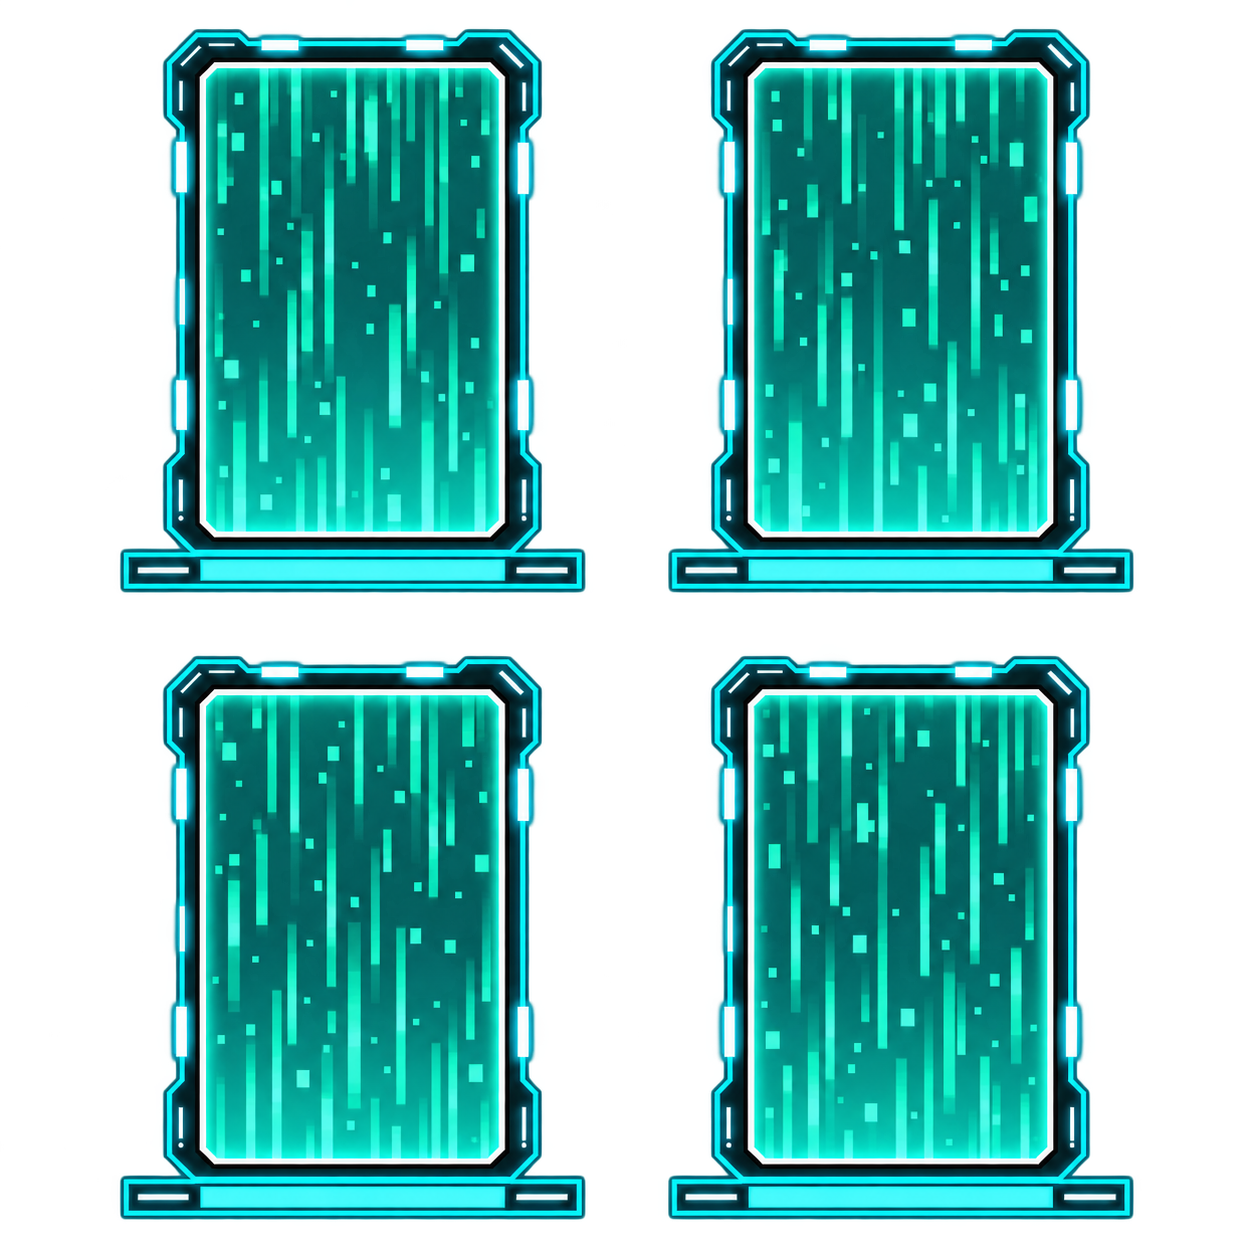
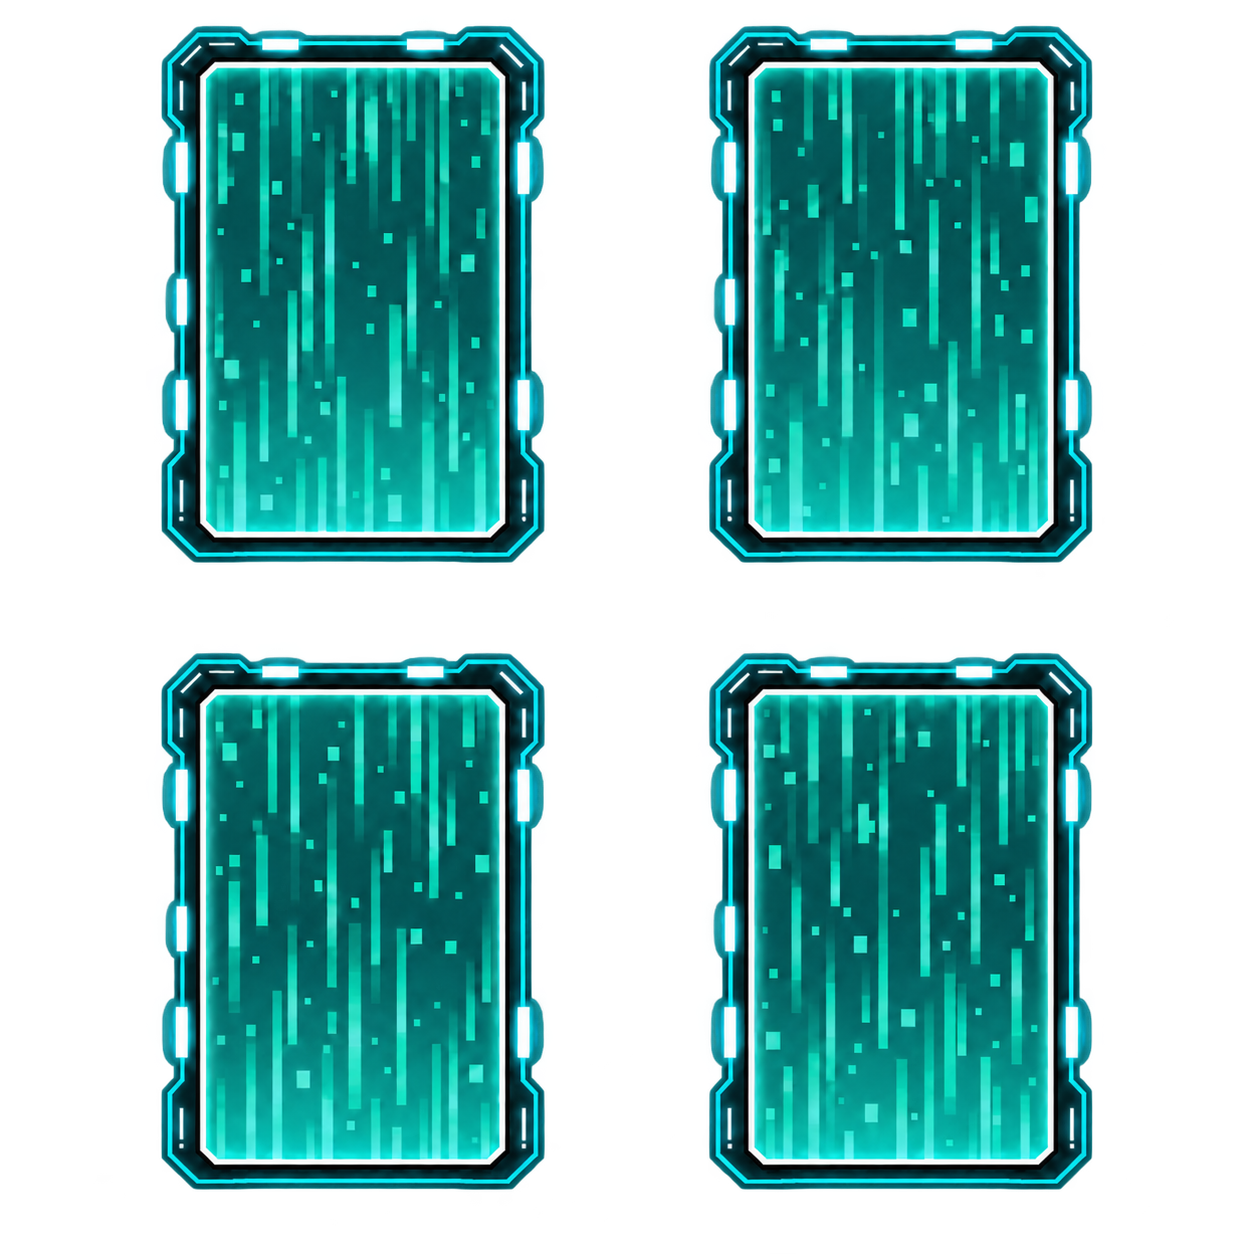
321

diff --git a/src/ui/art/corridorArt.ts b/src/ui/art/corridorArt.ts
@@ -1,4 +1,5 @@
-import bluePortalArt from "@/assets/explore-corridor/废弃楼层/蓝色传送门.png";
+import roomPortalSpriteArt from "@/assets/explore-corridor/废弃楼层/传送门.png";
+import bossGateArt from "@/assets/explore-corridor/废弃楼层/蓝色传送门.png";
 import corridorSafeArt from "@/assets/explore-corridor/废弃楼层/可交互物体/保险箱.png";
 import corridorMerchantArt from "@/assets/explore-corridor/废弃楼层/可交互物体/货商.png";
 import corridorVendingArt from "@/assets/explore-corridor/废弃楼层/可交互物体/贩卖机.png";
@@ -20,7 +21,7 @@ import type { NearMapVariant } from "@/explore/dungeon/types";
 import type { CurioKind } from "@/explore/corridor/types";
 
 export const CORRIDOR_PROP_SCALES = {
-  small: 0.5,
+  small: 0.7,
   medium: 1,
   large: 1.2,
 } as const;
@@ -38,8 +39,20 @@ interface CorridorPropArt {
 
 /** 废弃楼层专属背景与物件素材登记；每类交互物使用自己的透明 PNG。 */
 export const CORRIDOR_FAR_ART = corridorFarArt;
-/** 房间传送门：四个方向共用蓝色传送门立绘。 */
-export const CORRIDOR_PORTAL_ART = bluePortalArt;
+/** 房间传送门：四个方向共用四分镜传送门精灵图。 */
+export const CORRIDOR_ROOM_PORTAL_ART = roomPortalSpriteArt;
+/** 房间传送门精灵图为 2×2 排列，每个分镜为 627×627。 */
+export const CORRIDOR_ROOM_PORTAL_FRAME_SIZE = 627;
+/** 房间传送门在场景中的显示尺寸。 */
+export const CORRIDOR_ROOM_PORTAL_DISPLAY_HEIGHT = 330;
+/** 房间传送门每帧底部的透明留白比例，用于让可见底座贴住地面。 */
+export const CORRIDOR_ROOM_PORTAL_GROUND_TRIM = 35 / CORRIDOR_ROOM_PORTAL_FRAME_SIZE;
+/** 按当前显示高度换算出的房间传送门落点偏移，并额外下沉 20px 贴合实际视觉地面。 */
+export const CORRIDOR_ROOM_PORTAL_Y_OFFSET = Math.round(CORRIDOR_ROOM_PORTAL_DISPLAY_HEIGHT * CORRIDOR_ROOM_PORTAL_GROUND_TRIM) + 20;
+/** 以每帧底部最靠左的可见像素为锚点，第 2/4 帧需向右补偿的原图像素。 */
+export const CORRIDOR_ROOM_PORTAL_ANCHOR_SHIFT = 79;
+/** 首领红门沿用单帧传送门素材，并在组件中做红色调色。 */
+export const CORRIDOR_BOSS_GATE_ART = bossGateArt;
 export const CORRIDOR_NEAR_ART: Record<NearMapVariant, string> = {
   standard: corridorNearStandardArt,
   alternate: corridorNearAlternateArt,
@@ -47,11 +60,12 @@ export const CORRIDOR_NEAR_ART: Record<NearMapVariant, string> = {
 };
 
 /**
- * 交互物原图按 0.5 作为设计画布基准，再叠加小/中/大三档尺寸。
- * 512px 方图的中档绘制边长为 256px，宽幅素材仍按原始比例绘制。
+ * 交互物原图按 0.35 作为设计画布基准，再叠加小/中/大三档尺寸。
+ * 512px 方图的中档绘制边长约为 179px，宽幅素材仍按原始比例绘制。
+ * 房间传送门与首领红门使用独立尺寸，不受此基准影响。
  */
 export const CORRIDOR_PROP_ART: Record<CurioKind, CorridorPropArt> = {
-  safe: { src: corridorSafeArt, width: 512, height: 512, scale: CORRIDOR_PROP_SCALES.medium, groundTrim: 86 / 512 },
+  safe: { src: corridorSafeArt, width: 512, height: 512, scale: CORRIDOR_PROP_SCALES.small, groundTrim: 86 / 512 },
   crystalVein: { src: corridorCrystalVeinArt, width: 512, height: 512, scale: CORRIDOR_PROP_SCALES.large, groundTrim: 40 / 512 },
   vending: { src: corridorVendingArt, width: 512, height: 512, scale: CORRIDOR_PROP_SCALES.medium, groundTrim: 20 / 512 },
   remains: { src: corridorRemainsArt, width: 512, height: 512, scale: CORRIDOR_PROP_SCALES.small, groundTrim: 37 / 512 },
@@ -64,14 +78,14 @@ export const CORRIDOR_PROP_ART: Record<CurioKind, CorridorPropArt> = {
   shrine: { src: corridorShrineArt, width: 512, height: 512, scale: CORRIDOR_PROP_SCALES.large, groundTrim: 46 / 512 },
   dispatch: { src: corridorDispatchArt, width: 512, height: 512, scale: CORRIDOR_PROP_SCALES.medium, groundTrim: 131 / 512 },
   merchant: { src: corridorMerchantArt, width: 724, height: 543, scale: CORRIDOR_PROP_SCALES.medium, groundTrim: 5 / 543 },
-  tutorialArmory: { src: corridorSafeArt, width: 512, height: 512, scale: CORRIDOR_PROP_SCALES.medium, groundTrim: 86 / 512 },
+  tutorialArmory: { src: corridorSafeArt, width: 512, height: 512, scale: CORRIDOR_PROP_SCALES.small, groundTrim: 86 / 512 },
   tutorialModBench: { src: corridorModBenchArt, width: 512, height: 512, scale: CORRIDOR_PROP_SCALES.large, groundTrim: 65 / 512 },
   tutorialForge: { src: corridorCardPrinterArt, width: 512, height: 512, scale: CORRIDOR_PROP_SCALES.medium, groundTrim: 19 / 512 },
   tutorialMedical: { src: corridorMedicalArt, width: 512, height: 512, scale: CORRIDOR_PROP_SCALES.medium, groundTrim: 26 / 512 },
 };
 
-/** 蓝色传送门素材的场景 Y 轴偏移（设计 px，正值向下）。 */
-export const CORRIDOR_PORTAL_Y_OFFSET = 60;
+/** 首领红门单帧素材的场景 Y 轴偏移（设计 px，正值向下）。 */
+export const CORRIDOR_BOSS_GATE_Y_OFFSET = 60;
 
 /** 各交互物独立的场景 Y 轴微调值（设计 px，正值向下）。 */
 export const CORRIDOR_PROP_Y_OFFSETS: Record<CurioKind, number> = {
@@ -97,6 +111,7 @@ export const CORRIDOR_PROP_Y_OFFSETS: Record<CurioKind, number> = {
 export const CORRIDOR_ART_SOURCES: readonly string[] = [
   corridorFarArt,
   ...Object.values(CORRIDOR_NEAR_ART),
-  bluePortalArt,
+  roomPortalSpriteArt,
+  bossGateArt,
   ...Object.values(CORRIDOR_PROP_ART).map((art) => art.src),
 ];

diff --git a/src/ui/explore/CorridorScene/CorridorScene.module.css b/src/ui/explore/CorridorScene/CorridorScene.module.css
@@ -22,8 +22,28 @@
 .player { position: absolute; left: 0; top: 0; transform: translate(-50%, calc(-100% + 29px)); width: 216px; height: 240px; pointer-events: none; }
 /* 传送门：四个方向同一副外观，方向只能从小地图读出。踩上去才亮起并给出确认提示。 */
 .portal { z-index: 4; }
-.portalArt { display: block; filter: brightness(.85) saturate(.8); transition: filter 220ms; }
-.portalLit { filter: brightness(1.25) saturate(1.15) drop-shadow(0 0 16px #7fe6d8aa); will-change: opacity; animation: portalBreathe 1.6s ease-in-out infinite; }
+.portalArt {
+  display: block;
+  position: relative;
+  overflow: hidden;
+  flex: 0 0 auto;
+  filter: brightness(.85) saturate(.8);
+  transition: filter 220ms;
+}
+.portalSprite {
+  position: absolute;
+  inset: 0;
+  background-size: 200% 200%;
+  background-repeat: no-repeat;
+  background-position: 0 0;
+  animation: portalSprite 400ms steps(1, end) infinite;
+  will-change: transform, background-position;
+}
+.portalLit {
+  filter: brightness(1.25) saturate(1.15) drop-shadow(0 0 16px #7fe6d8aa);
+  will-change: opacity;
+  animation: portalBreathe 1.6s ease-in-out infinite;
+}
 .portalPrompt { position: absolute; top: -52px; left: 50%; transform: translateX(-50%) scale(var(--corridor-ui-scale)); transform-origin: 50% 100%; white-space: nowrap; padding: 7px 14px; font-size: 18px; color: #d9f4ec; background: #0d2223e8; border: 1px solid #7fc9b680; }
 .bossGate { z-index: 4; }
 .bossGateArt { display: block; filter: hue-rotate(140deg) saturate(1.6) brightness(.9); transition: filter 220ms; }
@@ -31,6 +51,12 @@
 .bossGatePrompt { position: absolute; top: -52px; left: 50%; transform: translateX(-50%) scale(var(--corridor-ui-scale)); transform-origin: 50% 100%; white-space: nowrap; padding: 7px 14px; font-size: 18px; color: #ffd6cf; background: #321619eb; border: 1px solid #e36b6388; }
 .vignette { position: absolute; inset: 0; z-index: 20; box-shadow: inset 0 0 180px 50px #020507ad; pointer-events: none; }
 @keyframes marker { 0%, 100% { transform: scale(var(--corridor-ui-scale)) translateY(0); } 50% { transform: scale(var(--corridor-ui-scale)) translateY(-7px); } }
+@keyframes portalSprite {
+  0%, 24.999% { background-position: 0 0; transform: translateX(0); }
+  25%, 49.999% { background-position: 100% 0; transform: translateX(var(--portal-anchor-shift)); }
+  50%, 74.999% { background-position: 0 100%; transform: translateX(0); }
+  75%, 100% { background-position: 100% 100%; transform: translateX(var(--portal-anchor-shift)); }
+}
 @keyframes portalBreathe { 0%, 100% { opacity: .88; } 50% { opacity: 1; } }
 @keyframes bossGateBreathe { 0%, 100% { opacity: .86; } 50% { opacity: 1; } }
 @keyframes propInteraction {

diff --git a/src/ui/art/statusArt.ts b/src/ui/art/statusArt.ts
@@ -7,22 +7,17 @@ import shieldArt from "@/assets/buffs/护盾.png";
 import burnArt from "@/assets/buffs/烧伤.png";
 import sharpArt from "@/assets/buffs/锋利.png";
 import insuranceArt from "@/assets/buffs/保险.png";
-import buzhouArt from "@/assets/buffs/不周山.png";
 import tauntArt from "@/assets/buffs/嘲讽.png";
 import chargedShellArt from "@/assets/buffs/充能外壳.png";
-import insightArt from "@/assets/buffs/洞察.png";
 import retortWallArt from "@/assets/buffs/反应釜壁.png";
 import overloadArt from "@/assets/buffs/过载.png";
 import echoArt from "@/assets/buffs/回响.png";
 import feignInjuryArt from "@/assets/buffs/假装受伤.png";
-import defenseUpArt from "@/assets/buffs/坚固.png";
-import thornsArt from "@/assets/buffs/荆棘.png";
 import strengthArt from "@/assets/buffs/力量.png";
 import tequilaArt from "@/assets/buffs/龙舌兰.png";
 import rashomonArt from "@/assets/buffs/罗生门.png";
 import deductibleArt from "@/assets/buffs/免赔.png";
 import bountyHunterArt from "@/assets/buffs/赏金猎人.png";
-import regenArt from "@/assets/buffs/再生.png";
 import vitalityArt from "@/assets/buffs/生机.png";
 import ironwallArt from "@/assets/buffs/铁壁.png";
 import cactusCounterattackArt from "@/assets/buffs/仙人掌.png";
@@ -38,15 +33,10 @@ export const STATUS_ART: Record<string, string> = {
   chargedShell: chargedShellArt,
   retortWall: retortWallArt,
   bountyHunter: bountyHunterArt,
-  buzhou: buzhouArt,
-  insight: insightArt,
   tequila: tequilaArt,
-  defenseUp: defenseUpArt,
   taunt: tauntArt,
   burn: burnArt,
   poison: poisonArt,
-  regen: regenArt,
-  thorns: thornsArt,
   vitality: vitalityArt,
   cactusCounterattack: cactusCounterattackArt,
   insurance: insuranceArt,
@@ -71,15 +61,10 @@ export const STATUS_ART_SOURCES: readonly string[] = [
   chargedShellArt,
   retortWallArt,
   bountyHunterArt,
-  buzhouArt,
-  insightArt,
   tequilaArt,
-  defenseUpArt,
   tauntArt,
   burnArt,
   poisonArt,
-  regenArt,
-  thornsArt,
   vitalityArt,
   cactusCounterattackArt,
   insuranceArt,

diff --git a/src/ui/explore/CorridorScene/CorridorScene.tsx b/src/ui/explore/CorridorScene/CorridorScene.tsx
@@ -2,7 +2,11 @@ import { CORRIDOR_CURIOS } from "@/data/curios";
 import { CORRIDOR, type CorridorState } from "@/explore/corridor/types";
 import type { NearMapVariant } from "@/explore/dungeon/types";
 import { EXPLORE_RULES } from "@/explore/rules";
-import { CORRIDOR_PORTAL_Y_OFFSET, CORRIDOR_PROP_Y_OFFSETS } from "@/ui/art/corridorArt";
+import {
+  CORRIDOR_PROP_Y_OFFSETS,
+  CORRIDOR_ROOM_PORTAL_DISPLAY_HEIGHT,
+  CORRIDOR_ROOM_PORTAL_Y_OFFSET,
+} from "@/ui/art/corridorArt";
 import { CorridorAbyss, CorridorFar, CorridorNear } from "./CorridorBackdrop";
 import { CorridorSprite } from "./CorridorSprite";
 import { CorridorPlayer } from "./CorridorPlayer";
@@ -69,11 +73,11 @@ export function CorridorScene({ corridor, blocked, encountering, nearMapVariant,
         <CorridorNear width={corridor.width} variant={nearMapVariant} />
         {corridor.portals.map((portal) => {
           const standing = movement.standingPortal?.dir === portal.dir;
-          return <div key={portal.dir} className={`${s.object} ${s.portal}`} style={{ left: portal.x, top: entityFloorY + CORRIDOR_PORTAL_Y_OFFSET }}>
+          return <div key={portal.dir} className={`${s.object} ${s.portal}`} style={{ left: portal.x, top: entityFloorY + CORRIDOR_ROOM_PORTAL_Y_OFFSET }}>
             <button className={s.objectButton} type="button" disabled={blocked}
               onClick={() => movement.travel(portal.dir)}
               aria-label={standing ? "传送门，确认前往" : "传送门，走上去可点亮它通往的房间"}>
-              <RoomPortal height={455} standing={standing} />
+              <RoomPortal height={CORRIDOR_ROOM_PORTAL_DISPLAY_HEIGHT} standing={standing} />
             </button>
             {standing && <span className={s.portalPrompt}>空格传送 · 粒子 −{EXPLORE_RULES.dungeon.energyPerRoomMove}</span>}
           </div>;

diff --git a/src/ui/explore/CorridorScene/RoomPortal.tsx b/src/ui/explore/CorridorScene/RoomPortal.tsx
@@ -1,12 +1,28 @@
-import { CORRIDOR_PORTAL_ART } from "@/ui/art/corridorArt";
+import {
+  CORRIDOR_ROOM_PORTAL_ANCHOR_SHIFT,
+  CORRIDOR_ROOM_PORTAL_ART,
+  CORRIDOR_ROOM_PORTAL_FRAME_SIZE,
+} from "@/ui/art/corridorArt";
 import s from "./CorridorScene.module.css";
+import type { CSSProperties } from "react";
 
 /**
  * 房间传送门 —— 四个方向共用同一副外观。
  * 方向刻意不在场景里透露：玩家只能站上去，再从小地图读出它通往哪一间房。
  */
 export function RoomPortal({ height, standing }: { height: number; standing: boolean }) {
-  return <img aria-hidden alt="" draggable={false} src={CORRIDOR_PORTAL_ART}
+  const portalStyle = {
+    width: height,
+    height,
+    "--portal-anchor-shift": `${height * CORRIDOR_ROOM_PORTAL_ANCHOR_SHIFT / CORRIDOR_ROOM_PORTAL_FRAME_SIZE}px`,
+  } as CSSProperties;
+  return <div aria-hidden draggable={false}
     className={`${s.portalArt} ${standing ? s.portalLit : ""}`}
-    style={{ height }} />;
+    style={portalStyle}>
+    <span
+      aria-hidden
+      className={s.portalSprite}
+      style={{ backgroundImage: `url("${CORRIDOR_ROOM_PORTAL_ART}")` }}
+    />
+  </div>;
 }

diff --git a/src/ui/explore/CorridorScene/BossGate.tsx b/src/ui/explore/CorridorScene/BossGate.tsx
@@ -1,4 +1,4 @@
-import { CORRIDOR_PORTAL_ART, CORRIDOR_PORTAL_Y_OFFSET } from "@/ui/art/corridorArt";
+import { CORRIDOR_BOSS_GATE_ART, CORRIDOR_BOSS_GATE_Y_OFFSET } from "@/ui/art/corridorArt";
 import s from "./CorridorScene.module.css";
 
 export function BossGate({
@@ -15,7 +15,7 @@ export function BossGate({
   onClick: () => void;
 }) {
   const disabled = blocked || !near;
-  return <div className={`${s.object} ${s.bossGate}`} style={{ left: x, top: top + CORRIDOR_PORTAL_Y_OFFSET }}>
+  return <div className={`${s.object} ${s.bossGate}`} style={{ left: x, top: top + CORRIDOR_BOSS_GATE_Y_OFFSET }}>
     <button
       className={s.objectButton}
       type="button"
@@ -27,7 +27,7 @@ export function BossGate({
         aria-hidden
         alt=""
         draggable={false}
-        src={CORRIDOR_PORTAL_ART}
+        src={CORRIDOR_BOSS_GATE_ART}
         className={`${s.bossGateArt} ${near ? s.bossGateLit : ""}`}
         style={{ height: 455 }}
       />

diff --git a/src/assets/explore-corridor/README.md b/src/assets/explore-corridor/README.md
@@ -8,16 +8,17 @@
 - `废弃楼层/近景/测试.png`（2048×771）、`测试2.png`（2172×724）、`测试3.png`（2048×768）：三种近景图都按原始宽高的 2 倍显示，房间宽度分别与素材显示宽度一致；新手关卡在生成房间时随机混排三种地图并保证各至少出现一次，房间重访时保持不变。尺寸登记在 `explore/dungeon/nearMapGeometry.ts`，平台顶面按原 1080px 高布局的校准值换算到素材显示高度，再通过 Y 轴位置维持现有地面线。
 - `废弃楼层/无限近景-左.png`、`无限近景-右.png`：旧版近景半图，保留作旧素材归档，不再参与运行时渲染。
 - `废弃楼层/无限近景-透明.png`：旧版单张近景，保留作旧素材归档，不再参与运行时渲染。
-- `废弃楼层/可交互物体/`：交互物独立透明 PNG；原图按 0.5 作为设计画布基准，再按小 0.5、
+- `废弃楼层/可交互物体/`：交互物独立透明 PNG；原图按 0.35 作为设计画布基准，再按小 0.5、
   中 1.0、大 1.2 三档缩放。每张素材的透明底边由 `CORRIDOR_PROP_ART` 登记并通过负外边距补偿，
   每种物件另有独立的 `CORRIDOR_PROP_Y_OFFSETS` 场景 Y 轴微调值（设计 px，正值向下）。
-- `废弃楼层/蓝色传送门.png`：房间传送门专用立绘；传送门外观与普通交互物素材分开登记。
+- `废弃楼层/传送门.png`：房间传送门四分镜精灵图（1254×1254，2×2 排列）；每帧按 100ms 播放，循环速率为每秒 10 帧，场景显示高度为 330px，并按底部透明留白对齐地面。传送门外观与普通交互物素材分开登记。
+- `废弃楼层/蓝色传送门.png`：首领红门沿用的单帧立绘，通过场景滤镜调成红色。
 - `人物立绘/站立右移动作帧_透明背景/` 仅保留 17 帧：帧 000 为静态站姿（初始与停步共用，不播放动画），帧 030～060 隔帧组成行走循环（每秒 15 帧）；其余帧已删除。
   `ui/art/corridorPlayerArt.ts` 按原始帧号登记资源，缺失帧保留空位，避免裁剪素材后动画帧错位。
   `ui/art/corridorPlayerFrames.ts` 缓存已解码图片，角色组件通过独立画布同步绘帧，避免逐帧切换图片地址造成显示延迟。
   单帧原图 417×556，现已等比压缩至 180×240 以匹配 1080p 设计画布中的实际绘制尺寸；完整透明画布与底部留白均予保留，
   角色组件按 240px 高度显示，并通过 `.player` 偏移及 `CORRIDOR_LAYOUT.entityGroundOffset` 与新近景地面对齐。
-- 旧版 `传送门.png`、`售货机.png`、`宝箱.png`、`雕像.png` 保留在目录中，不参与当前走廊运行时渲染。黑影与破地动画仍由 `ShadowEncounter` 独立绘制。
+- 旧版 `售货机.png`、`宝箱.png`、`雕像.png` 保留在目录中，不参与当前走廊运行时渲染。黑影与破地动画仍由 `ShadowEncounter` 独立绘制。
 - 旧版 `废弃楼层/背景.png`、`corridor.png`、`ground.png`、`sprites.png` 保留在目录中，不再用于当前走廊场景。
 
 ## 旧版素材生成提示词（供追溯）
